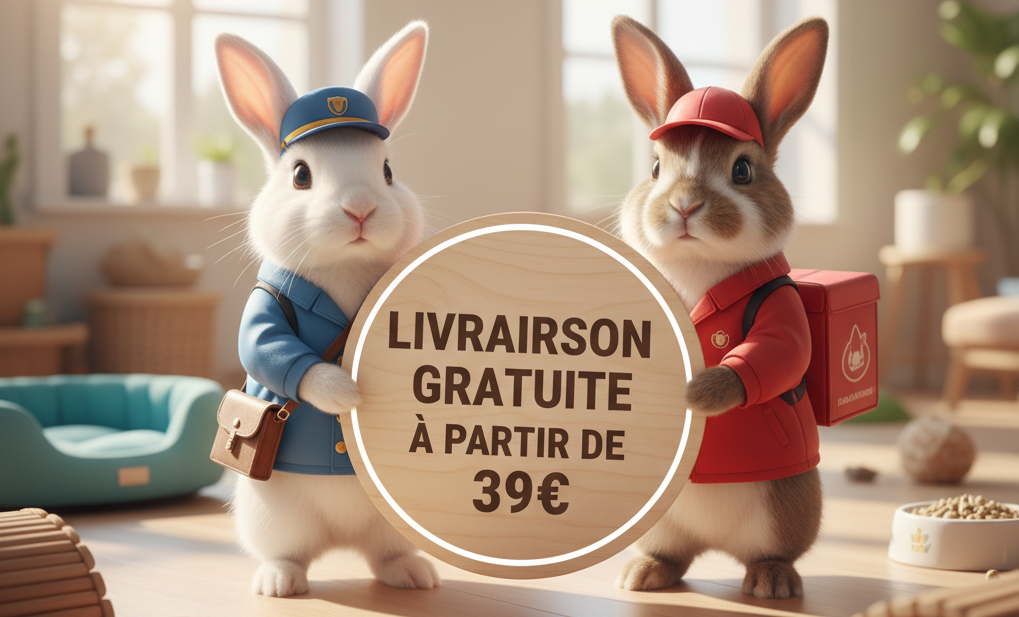
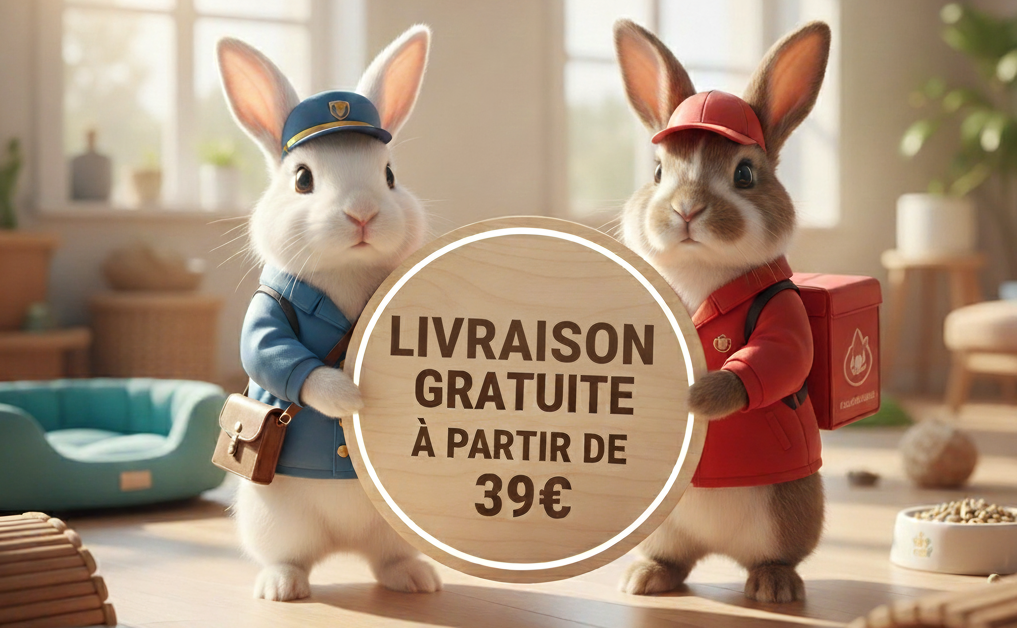
livraison corrigé

diff --git a/inc/init.inc.php b/inc/init.inc.php
@@ -3,7 +3,7 @@
 $pdo = new PDO(
     'mysql:host=localhost;dbname=lapinou&co;charset=utf8mb4',
     'root',
-    '',
+    'root',
     array(
         PDO::ATTR_ERRMODE => PDO::ERRMODE_EXCEPTION,
         PDO::ATTR_DEFAULT_FETCH_MODE => PDO::FETCH_ASSOC,
